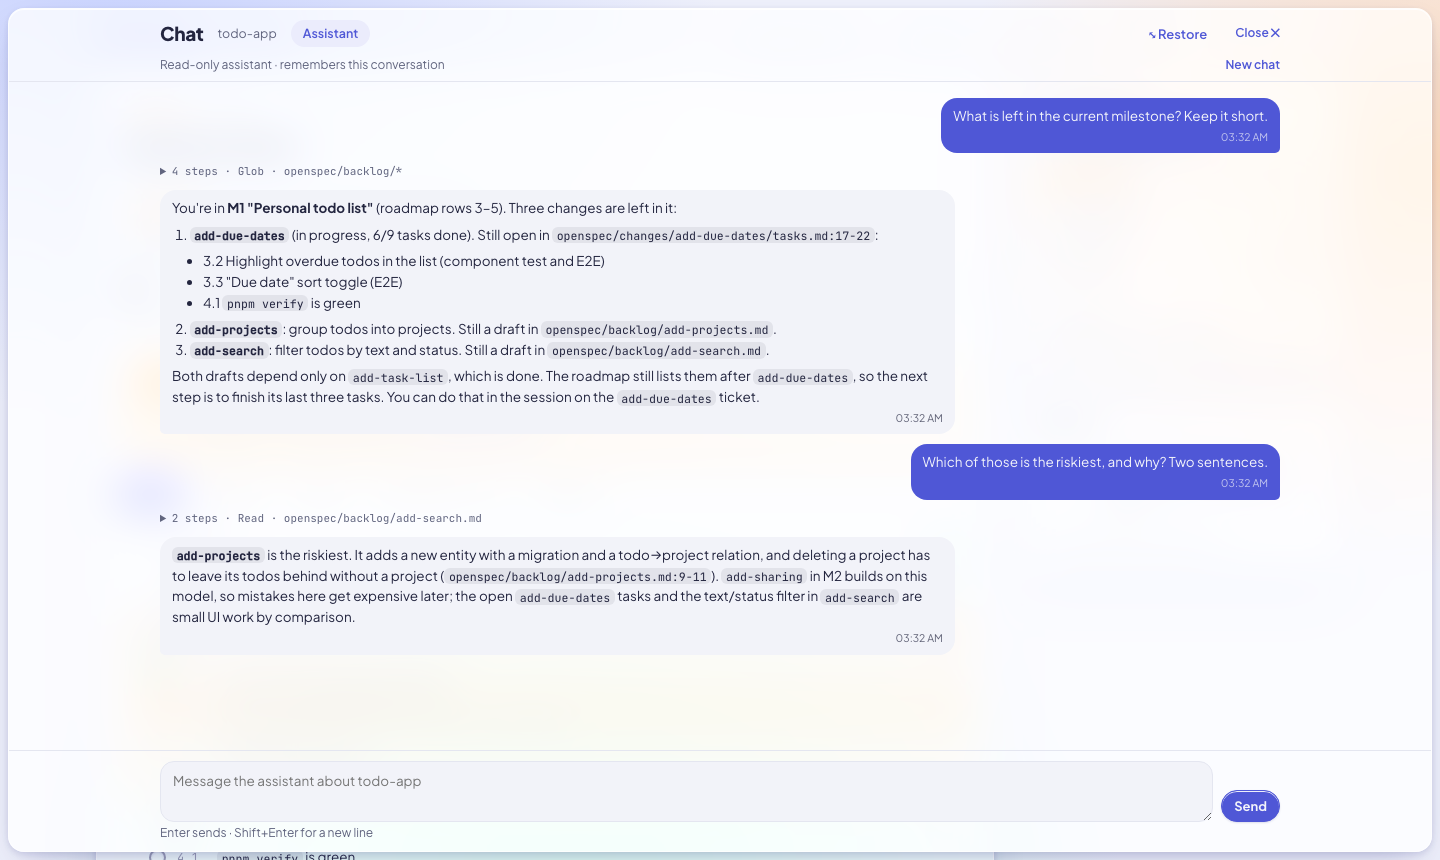
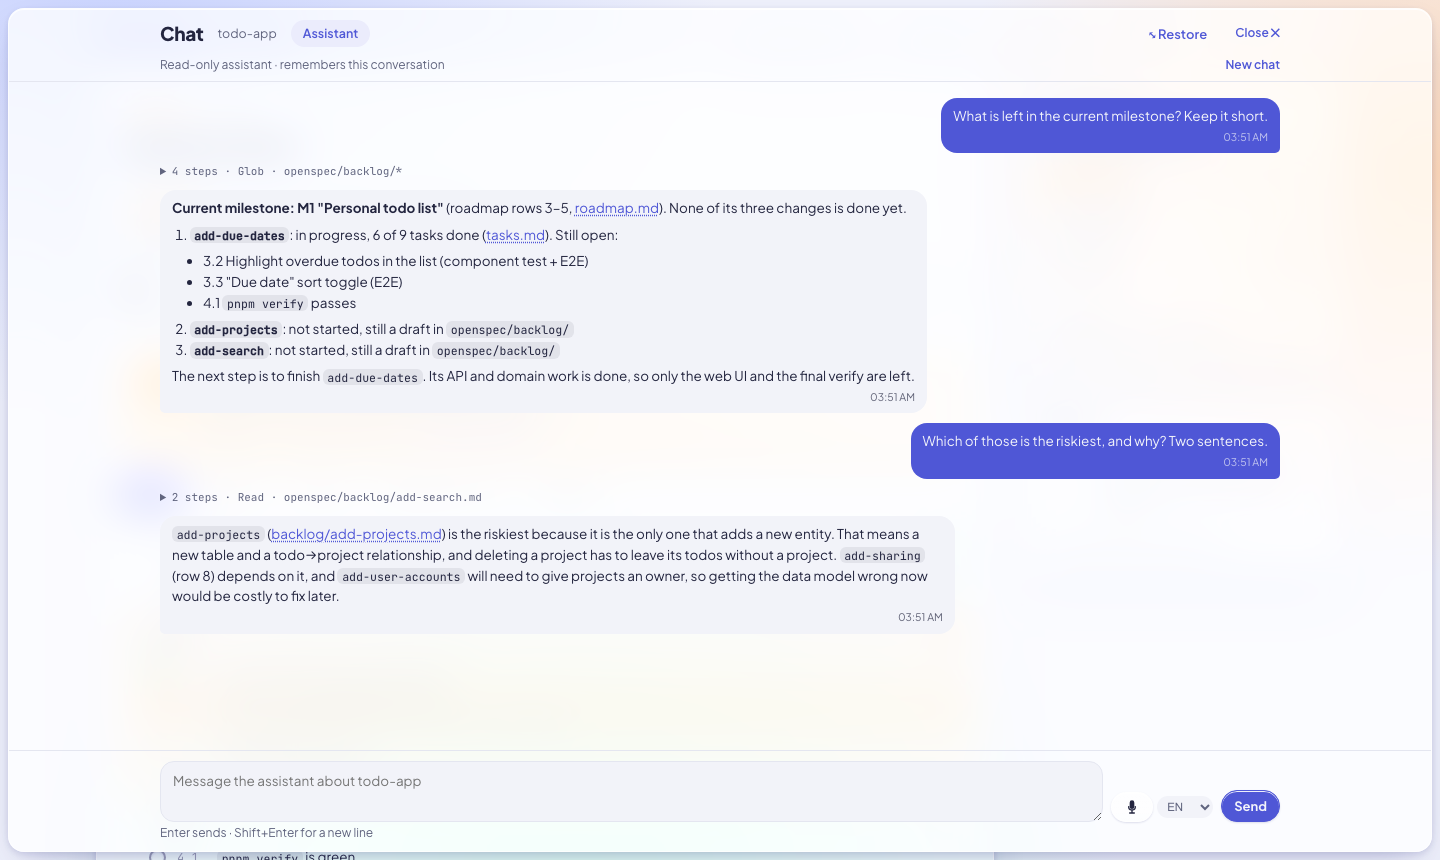
Dashboard: voice input via a local speech-to-text container
With --agent, the dashboard looks for a Podman or Docker image whose entrypoint is
whisper.cpp's whisper-cli with a model (or takes --stt-image). If one is there,
every text box in the agent panel gets a microphone: the recording is
transcribed locally in a throwaway container (no network, read-only root,
memory limits; audio on stdin only), never by Claude, and the text only goes
into the box to be checked before sending.

A language selector (default: the browser's language) skips Whisper's language
detection, and the audio window is sized to the clip: a short clip takes a few
seconds instead of half a minute. Auto keeps the full window.

Also: Markdown links in answers (web links open in a new tab, project paths show
as references), and the guide's screenshots show the microphone.

diff --git a/tools/openspec-dashboard/index.html b/tools/openspec-dashboard/index.html
@@ -1138,6 +1138,8 @@ body.board-max { overflow: hidden; }
 .ag-log li.sub { margin-left: 14px; }
 .ag-spin { display: inline-block; width: 8px; height: 8px; border-radius: 50%; background: var(--st-progress); margin-right: 7px; animation: pulse 2.4s infinite; }
 .ag-open { font-size: 12px; padding: 2px 10px; }
+.ref { color: var(--accent); text-decoration: underline dotted; text-underline-offset: 2px; }
+.md a { color: var(--accent); }
 .ag-sub { margin: 0 var(--agp) 4px; display: flex; gap: 8px 10px; align-items: center; flex-wrap: wrap; }
 .ag-sub .link { margin-left: auto; font-size: 13px; }
 .ag-empty { color: var(--muted); font-size: 13px; padding: 6px 2px; }
@@ -1165,6 +1167,14 @@ body.board-max { overflow: hidden; }
 .ag-compose { display: flex; gap: 8px; align-items: flex-end; padding: 10px var(--agp) 4px; border-top: 1px solid var(--line); }
 .ag-compose textarea { flex: 1; min-height: 42px; max-height: 160px; resize: vertical; border: 1px solid var(--line); border-radius: 14px; background: var(--surface-2); color: var(--ink); padding: 9px 12px; font: inherit; font-size: 13.5px; }
 .ag-route { padding: 0 var(--agp) 12px; }
+.ag-voice { display: inline-flex; align-items: center; gap: 4px; flex: none; }
+.ag-voice[hidden] { display: none !important; }
+.ag-mic { display: inline-flex; align-items: center; gap: 6px; min-height: 30px; }
+.ag-mic.recording { background: color-mix(in srgb, var(--st-blocked) 16%, var(--surface)) !important; color: var(--st-blocked) !important; font-weight: 700; font-variant-numeric: tabular-nums;
+  box-shadow: 0 0 0 calc(var(--lvl, 0) * 6px) color-mix(in srgb, var(--st-blocked) 25%, transparent); transition: box-shadow .15s; }
+.ag-mic.busy { color: var(--muted); }
+.rec-dot { width: 8px; height: 8px; border-radius: 50%; background: var(--st-blocked); animation: pulse 1.2s infinite; }
+.ag-lang { border: 0; background: var(--surface-2); color: var(--muted); border-radius: 999px; padding: 4px 6px; font-size: 11.5px; cursor: pointer; }
 /* on wide screens the full-screen board makes room for the panel instead of hiding columns under it */
 @media (min-width: 1100px) { body.ag-open:not(.ag-max) .board.max { padding-right: calc(min(480px, 100vw - 24px) + 24px); } }
 /* maximized: the panel covers the window, its content stays a readable centred column */
@@ -1284,7 +1294,9 @@ function applyStyle(name) {
 
 const $ = (id) => document.getElementById(id);
 const esc = (s) => String(s ?? '').replace(/[&<>"']/g, (c) => ({ '&': '&amp;', '<': '&lt;', '>': '&gt;', '"': '&quot;', "'": '&#39;' }[c]));
-const inline = (s) => esc(s).replace(/`([^`]+)`/g, '<code>$1</code>').replace(/\*\*([^*]+)\*\*/g, '<strong>$1</strong>').replace(/(^|[\s(])\*([^*\s][^*]*?)\*(?=[\s.,;:!?)]|$)/g, '$1<em>$2</em>');
+// [text](url): web links open in a new tab; project paths show the text, the path is the tooltip
+const link = (_, text, url) => /^https?:\/\//.test(url) ? `<a href="${url}" target="_blank" rel="noopener noreferrer">${text}</a>` : `<span class="ref" title="${url}">${text}</span>`;
+const inline = (s) => esc(s).replace(/\[([^\]\n]+)\]\(([^)\s]+)\)/g, link).replace(/`([^`]+)`/g, '<code>$1</code>').replace(/\*\*([^*]+)\*\*/g, '<strong>$1</strong>').replace(/(^|[\s(])\*([^*\s][^*]*?)\*(?=[\s.,;:!?)]|$)/g, '$1<em>$2</em>');
 const stVar = (s) => `var(${STATUS[s]?.v ?? '--st-proposed'})`;
 const pct = (a, b) => (b ? Math.round((a / b) * 100) : 0);
 // add-due-dates -> Add due dates (the slug stays visible where it matters)
@@ -1787,7 +1799,7 @@ function openTicket(change, mode, draft) {
   const ta = $('ag-text');
   if (ta) { ta.focus(); ta.setSelectionRange(ta.value.length, ta.value.length); }
 }
-function closeAgent() { ag.open = false; $('agent').hidden = true; document.body.classList.remove('ag-open', 'ag-max'); updateAgentBtn(); }
+function closeAgent() { cancelRecording(); ag.open = false; $('agent').hidden = true; document.body.classList.remove('ag-open', 'ag-max'); updateAgentBtn(); }
 function applyAgentMax() {
   $('agent').classList.toggle('max', ag.max);
   document.body.classList.toggle('ag-max', ag.max && ag.open);
@@ -1813,6 +1825,7 @@ function buildChat(s) {
     <div class="ag-thread" id="ag-thread" aria-live="polite"></div>
     <div class="ag-compose">
       <textarea id="ag-text" rows="2" placeholder="${esc(ph)}">${esc(ag.drafts['chat-' + ag.convo] ?? '')}</textarea>
+      ${micHtml()}
       <button class="btn primary" type="button" data-ag-send>Send</button>
     </div>
     <div class="ag-note ag-route" id="ag-route"></div>`;
@@ -1825,7 +1838,7 @@ function buildTicket(s) {
   let form;
   if (ag.mode === 'ask') {
     form = `<textarea id="ag-text" rows="3" placeholder="Ask about ${esc(title(c.name))}, e.g. What is left to do? Which scenario covers …?">${esc(ag.drafts['ticket-ask'] ?? '')}</textarea>
-      <div class="ag-row"><button class="btn primary" type="button" data-ag-send>Ask</button><span class="ag-note">Claude reads this ticket's files read-only and answers here. ⌘/Ctrl+Enter sends.</span></div>`;
+      <div class="ag-row">${micHtml()}<button class="btn primary" type="button" data-ag-send>Ask</button><span class="ag-note">Claude reads this ticket's files read-only and answers here. ⌘/Ctrl+Enter sends.</span></div>`;
   } else {
     form = `<div class="ag-note">Starts a new Claude Code session that works on <b>${esc(title(c.name))}</b> with the ticket workflow. You follow and talk to it in the <b>Chat</b>.</div>
       ${ag.view?.trusted === false ? `<div class="ag-note warn">Claude Code does not trust this folder yet, so it ignores the project's permission rules and the session will be stuck at the first command. Run <code>claude</code> in ${esc(s.project)} once and accept the trust dialog.</div>` : ''}
@@ -1903,6 +1916,7 @@ function ticketItem(j) {
 function renderAgentLive() {
   updateAgentBtn();
   if (!ag.open || !ag.view) return;
+  for (const el of document.querySelectorAll('[data-ag-voice]')) el.hidden = !ag.view.stt?.available;
   if (ag.panel === 'chat') {
     if (!$('ag-thread')) return;
     const list = conversations();
@@ -1937,7 +1951,7 @@ function updateAgentBtn() {
 
 // ---- actions
 async function agentSend(force = false) {
-  if (ag.busy) return;
+  if (ag.busy || voice.state !== 'idle') return;
   const ta = $('ag-text');
   const text = ta?.value.trim() ?? '';
   ag.busy = true;
@@ -2024,6 +2038,152 @@ document.addEventListener('keydown', (e) => {
   if (chatSend || e.metaKey || e.ctrlKey) { e.preventDefault(); agentSend(false); }
 });
 setInterval(() => ag.open && renderAgentLive(), 15000);
+
+// ---- voice input: recorded here, transcribed by the local speech-to-text container (never by Claude); the text
+// only goes into the box, so it can be checked and corrected before it is sent
+const STT_LANGS = ['auto', 'en', 'de', 'fr', 'es', 'it', 'nl', 'pt', 'pl', 'cs', 'sv', 'da', 'no', 'fi', 'tr', 'ru', 'uk', 'ja', 'zh', 'ko'];
+const voice = { state: 'idle', rec: null, started: 0, timer: null, level: 0, lang: 'auto' };
+{
+  let l = null;
+  try { l = localStorage.getItem('osd-stt-lang'); } catch {}
+  const nav = (navigator.language || '').slice(0, 2).toLowerCase();
+  voice.lang = STT_LANGS.includes(l) ? l : STT_LANGS.includes(nav) ? nav : 'auto';
+}
+const langName = (c) => { if (c === 'auto') return 'Detect the language (slower)'; try { return new Intl.DisplayNames([navigator.language || 'en'], { type: 'language' }).of(c); } catch { return c; } };
+const MIC_SVG = '<svg viewBox="0 0 24 24" width="16" height="16" aria-hidden="true"><path fill="currentColor" d="M12 15a3.5 3.5 0 0 0 3.5-3.5v-6a3.5 3.5 0 1 0-7 0v6A3.5 3.5 0 0 0 12 15Zm6-3.5a1 1 0 1 0-2 0 4 4 0 0 1-8 0 1 1 0 1 0-2 0 6 6 0 0 0 5 5.91V20H8.5a1 1 0 1 0 0 2h7a1 1 0 1 0 0-2H13v-2.59a6 6 0 0 0 5-5.91Z"/></svg>';
+function micHtml() {
+  const on = !!ag.view?.stt?.available;
+  const label = voice.state === 'recording' ? `<span class="rec-dot"></span>${fmtSecs((Date.now() - voice.started) / 1000)} · Stop`
+    : voice.state === 'busy' ? '<span class="ag-spin"></span>Transcribing…' : MIC_SVG;
+  const title = voice.state === 'recording' ? 'Stop and transcribe' : voice.state === 'busy' ? 'Transcribing locally…'
+    : `Voice input: transcribed locally by ${ag.view?.stt?.image ?? 'the speech-to-text container'}; the text lands here to check before sending`;
+  return `<span class="ag-voice" data-ag-voice ${on ? '' : 'hidden'}>
+    <button class="btn ag-mic ${voice.state}" type="button" data-ag-mic title="${esc(title)}" aria-label="${voice.state === 'recording' ? 'Stop recording' : 'Voice input'}" ${voice.state === 'busy' ? 'disabled' : ''}>${label}</button>
+    <select class="ag-lang" data-ag-lang title="Language you speak (${esc(langName(voice.lang))})" aria-label="Language you speak">${STT_LANGS.map((c) => `<option value="${c}" ${c === voice.lang ? 'selected' : ''}>${c === 'auto' ? 'Auto' : c.toUpperCase()}</option>`).join('')}</select>
+  </span>`;
+}
+const fmtSecs = (s) => `${Math.floor(s / 60)}:${String(Math.floor(s % 60)).padStart(2, '0')}`;
+function refreshMic() {
+  for (const el of document.querySelectorAll('[data-ag-voice]')) el.outerHTML = micHtml();
+}
+function voiceNote(text, warn = false) {
+  const el = $('ag-route') ?? $('ag-note');
+  if (el) { el.textContent = text; el.style.color = warn ? 'var(--st-blocked)' : ''; }
+}
+async function startRecording() {
+  if (!navigator.mediaDevices?.getUserMedia) return voiceNote('This browser cannot record audio here.', true);
+  let stream;
+  try { stream = await navigator.mediaDevices.getUserMedia({ audio: { channelCount: 1, echoCancellation: true, noiseSuppression: true } }); }
+  catch { return voiceNote('Microphone access was denied.', true); }
+  const ctx = new AudioContext();
+  const src = ctx.createMediaStreamSource(stream);
+  const chunks = [];
+  const take = (c) => {
+    chunks.push(c);
+    let sum = 0;
+    for (let i = 0; i < c.length; i += 4) sum += c[i] * c[i];
+    voice.level = Math.min(1, Math.sqrt(sum / (c.length / 4)) * 6);
+  };
+  let node;
+  if (ctx.audioWorklet && window.AudioWorkletNode) {
+    const code = "registerProcessor('osd-rec', class extends AudioWorkletProcessor { process(i) { const c = i[0] && i[0][0]; if (c) this.port.postMessage(c.slice(0)); return true; } });";
+    const url = URL.createObjectURL(new Blob([code], { type: 'application/javascript' }));
+    await ctx.audioWorklet.addModule(url);
+    URL.revokeObjectURL(url);
+    node = new AudioWorkletNode(ctx, 'osd-rec');
+    node.port.onmessage = (e) => take(e.data);
+  } else {
+    node = ctx.createScriptProcessor(4096, 1, 1);
+    node.onaudioprocess = (e) => take(e.inputBuffer.getChannelData(0).slice(0));
+  }
+  src.connect(node);
+  node.connect(ctx.destination); // silent: nothing is written to the outputs
+  voice.rec = { stream, ctx, chunks, rate: ctx.sampleRate };
+  voice.state = 'recording';
+  voice.started = Date.now();
+  voice.timer = setInterval(() => {
+    if (Date.now() - voice.started > 5 * 60e3) return stopRecording();
+    const b = document.querySelector('.ag-mic.recording');
+    if (b) { b.style.setProperty('--lvl', voice.level.toFixed(2)); b.innerHTML = `<span class="rec-dot"></span>${fmtSecs((Date.now() - voice.started) / 1000)} · Stop`; }
+  }, 200);
+  refreshMic();
+  voiceNote('Recording… click Stop when you are done.');
+}
+function endRecording() {
+  clearInterval(voice.timer);
+  const r = voice.rec;
+  voice.rec = null;
+  if (!r) return null;
+  r.stream.getTracks().forEach((t) => t.stop());
+  r.ctx.close().catch(() => {});
+  return r;
+}
+function cancelRecording() { if (voice.state === 'recording') { endRecording(); voice.state = 'idle'; } }
+async function stopRecording() {
+  const r = endRecording();
+  if (!r) return;
+  const wav = toWav16k(r.chunks, r.rate);
+  if (wav.byteLength < 44 + 16000 * 2 * 0.3) { voice.state = 'idle'; refreshMic(); return voiceNote('That was too short to transcribe.', true); }
+  voice.state = 'busy';
+  refreshMic();
+  voiceNote('Transcribing locally…');
+  try {
+    const res = await fetch(`/api/stt?lang=${encodeURIComponent(voice.lang)}`, { method: 'POST', headers: { 'content-type': 'audio/wav', 'x-osd-token': AGENT_TOKEN }, body: wav });
+    const d = await res.json().catch(() => ({ error: `HTTP ${res.status}` }));
+    if (!res.ok) throw new Error(d.error || `HTTP ${res.status}`);
+    const ta = $('ag-text');
+    if (!d.text) voiceNote('No speech recognized.', true);
+    else if (ta) {
+      const at = ta.selectionStart ?? ta.value.length, end = ta.selectionEnd ?? at;
+      const before = ta.value.slice(0, at), after = ta.value.slice(end);
+      const ins = (before && !/\s$/.test(before) ? ' ' : '') + d.text + (after && !/^\s/.test(after) ? ' ' : '');
+      ta.value = before + ins + after;
+      ta.dispatchEvent(new Event('input', { bubbles: true })); // keeps the draft
+      ta.focus();
+      ta.setSelectionRange(before.length + ins.length, before.length + ins.length);
+      voiceNote(`Transcribed locally in ${(d.ms / 1000).toFixed(1)} s. Check the text, then send it.`);
+    }
+  } catch (e) {
+    voiceNote('✕ ' + e.message, true);
+  } finally {
+    voice.state = 'idle';
+    refreshMic();
+  }
+}
+// mono float samples at the recording rate -> 16 kHz mono 16-bit PCM WAV (what whisper.cpp reads)
+function toWav16k(chunks, rate) {
+  const len = chunks.reduce((a, c) => a + c.length, 0);
+  const data = new Float32Array(len);
+  let o = 0;
+  for (const c of chunks) { data.set(c, o); o += c.length; }
+  const ratio = rate / 16000;
+  const n = Math.floor(len / ratio);
+  const buf = new ArrayBuffer(44 + n * 2);
+  const v = new DataView(buf);
+  const str = (off, s) => { for (let i = 0; i < s.length; i++) v.setUint8(off + i, s.charCodeAt(i)); };
+  str(0, 'RIFF'); v.setUint32(4, 36 + n * 2, true); str(8, 'WAVE'); str(12, 'fmt ');
+  v.setUint32(16, 16, true); v.setUint16(20, 1, true); v.setUint16(22, 1, true); v.setUint32(24, 16000, true);
+  v.setUint32(28, 32000, true); v.setUint16(32, 2, true); v.setUint16(34, 16, true); str(36, 'data'); v.setUint32(40, n * 2, true);
+  for (let i = 0; i < n; i++) {
+    const a = Math.floor(i * ratio), b = Math.max(a + 1, Math.min(len, Math.floor((i + 1) * ratio)));
+    let s = 0;
+    for (let k = a; k < b; k++) s += data[k];
+    const x = Math.max(-1, Math.min(1, s / (b - a))); // averaging also filters what 16 kHz cannot hold
+    v.setInt16(44 + i * 2, x < 0 ? x * 0x8000 : x * 0x7fff, true);
+  }
+  return buf;
+}
+document.addEventListener('click', (e) => {
+  if (!e.target.closest('[data-ag-mic]')) return;
+  if (voice.state === 'recording') stopRecording();
+  else if (voice.state === 'idle') startRecording();
+});
+document.addEventListener('change', (e) => {
+  if (!e.target.matches?.('[data-ag-lang]')) return;
+  voice.lang = e.target.value;
+  try { localStorage.setItem('osd-stt-lang', voice.lang); } catch {}
+  refreshMic();
+});
 
 // ------------------------------------------------------------ several projects
 // ?project=<id> shows one project; with several projects and no ?project= the overview is the start page.

diff --git a/tools/openspec-dashboard/README.md b/tools/openspec-dashboard/README.md
@@ -86,6 +86,15 @@ Started with `--agent`, the dashboard talks to Claude Code in two places:
 node server.mjs --agent                              # in the project folder, or with --project/--scan
 ```
 
+**Voice input.** If Podman (or Docker) has a speech-to-text image, every text box of the panel gets a microphone.
+The recording is transcribed locally in that container, never by Claude, and the text only goes into the box, so
+you can check and correct it before sending. The dashboard looks for an image whose entrypoint is whisper.cpp's
+`whisper-cli` with its model (`whisper-cli -m <model> …`) and checks again every minute; `--stt-image` names one.
+Each recording runs in a throwaway container without network, with a read-only root and memory limits; the audio
+goes in on stdin and is never written to a file. The small selector next to the microphone is the language you
+speak (default: the browser's language). With a fixed language a short clip takes a few seconds; **Auto** detects
+the language first, which takes noticeably longer on a CPU.
+
 It runs the `claude` command (Claude Code) in the project folder, so it uses Claude Code's own login and counts
 towards the same plan or account as your other sessions; there is no separate key. Each question and session is
 a normal Claude Code run.
@@ -147,6 +156,9 @@ Without a working CLI everything except the validation results still works.
 | `--agent-permission-mode=<mode>` | `acceptEdits` | permission mode of started sessions (`acceptEdits`, `auto`, `dontAsk`, `plan`, …) |
 | `--agent-model=<model>` | Claude Code's default | model for questions and sessions, e.g. `sonnet` |
 | `--agent-prompt=<file>` | built in | first message of a started session; `{change}` is replaced by the change name |
+| `--stt-image=<image>` | detected (or `OPENSPEC_DASHBOARD_STT_IMAGE`) | speech-to-text image: entrypoint `whisper-cli -m <model>` |
+| `--stt-language=<code>` | `auto` | language when the page sends none |
+| `--no-stt` | | no voice input |
 
 Nine styles, picked in the header: Flat, Glass, Paper, Whiteboard, Notebook and Comic (each in light and dark), Blackboard, Matrix and Terminal (always dark). In the address, `?style=flat|glass|paper|whiteboard|blackboard|notebook|matrix|terminal|comic` and `?theme=light|dark` choose the look (otherwise the header buttons and the
 system setting decide), `?panel=chat` opens the chat, and `?snapshot` loads the data once without the live stream (useful for screenshots).

diff --git a/docs/user-guide.md b/docs/user-guide.md
@@ -129,6 +129,11 @@ Before the first session:
 - For a session running in a terminal, install the hook once so it receives messages:
   `node tools/openspec-dashboard/agent-hook.mjs install <project>`.
 
+**Voice input**: if Podman has a speech-to-text image (whisper.cpp's `whisper-cli` with a model), the text boxes get
+a microphone. Click it, speak, click **Stop**: the recording is transcribed locally in that container, and the text
+lands in the box for you to check before you send it. Pick the language you speak next to it; that is much faster
+than **Auto**.
+
 Every question, chat message and session is a normal Claude Code run and counts towards your plan. Details:
 [dashboard README](../tools/openspec-dashboard/README.md#agent-panel-optional).
 
